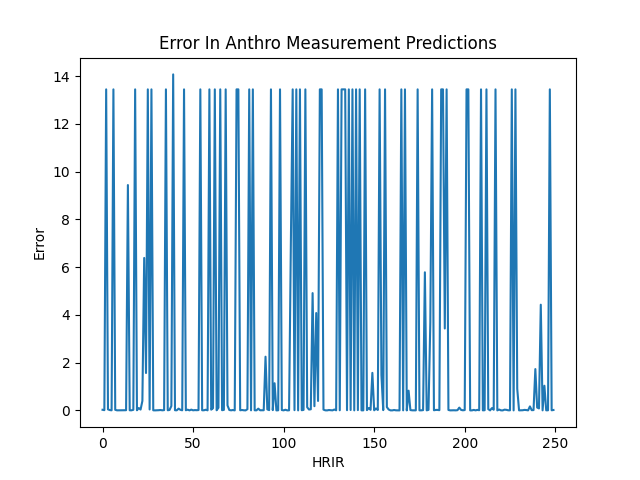
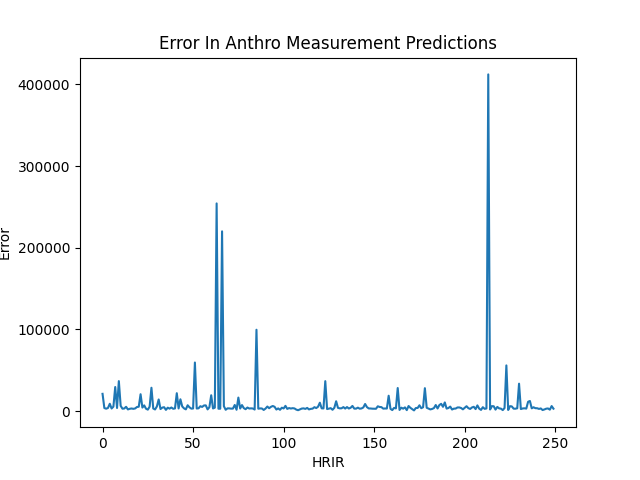
changed loss to MSE

diff --git a/src/train_and_validate.py b/src/train_and_validate.py
@@ -42,7 +42,7 @@ class ModelTrainer:
         anthro_train = self.anthro_train
         pos_train = self.pos_train
         # Set loss function
-        criterion = nn.CrossEntropyLoss()
+        criterion = nn.MSELoss()
         #Choose Adam Optimizer, learning rate
         optimizer = torch.optim.Adam(model.parameters(), lr=0.01)
         #Set iterations
@@ -73,7 +73,6 @@ class ModelTrainer:
         plt.ylabel("Loss")
         plt.xlabel("Epoch")
         plt.title("Training Loss")
-        plt.ylim(-30, 15)
         trainLoss.savefig('../figures/error.png')
 
     

diff --git a/src/model.py b/src/model.py
@@ -8,11 +8,14 @@ This class represents the model architecture used for
 this simple model
 
 One input vectors:
-    HRIR of left ear: 1 X 200
-
+    HRIR of left ear: 1 X 64
+    
+    Todo: Concantenate position vector
 Output Vectors:
     Left-Ear-Only Anthro Measurements: 27 x 1 
     Position vector: 1 X 3
+
+    Todo: Output anthro should only be ear measurements not all anthro measurements
 
 '''
 
